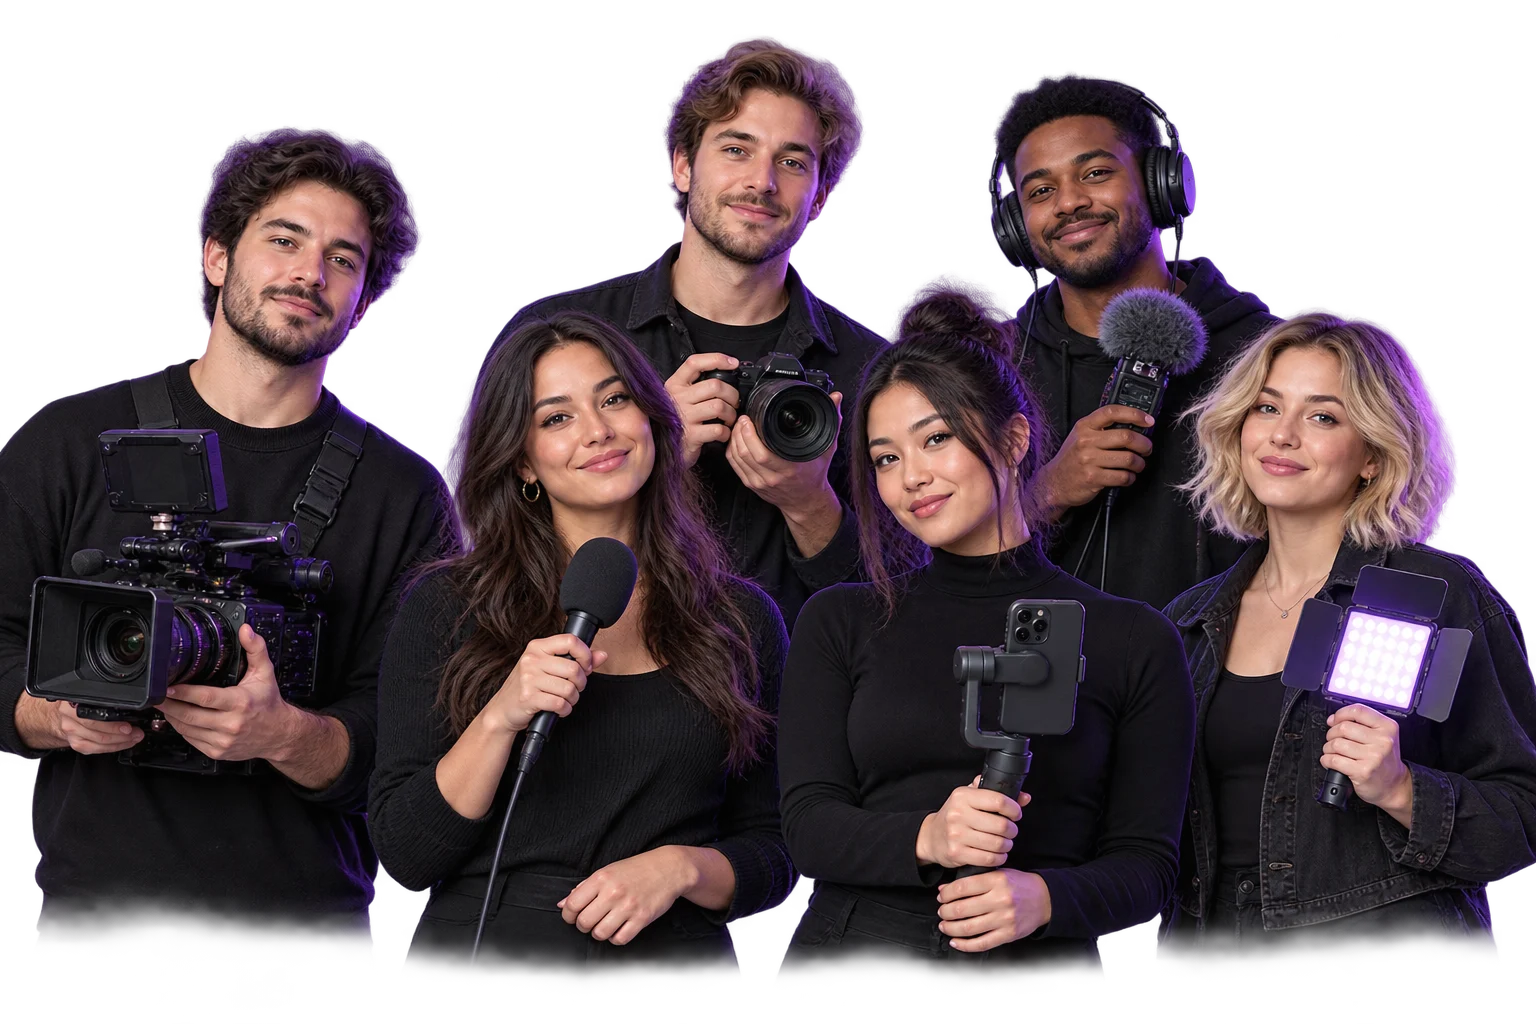
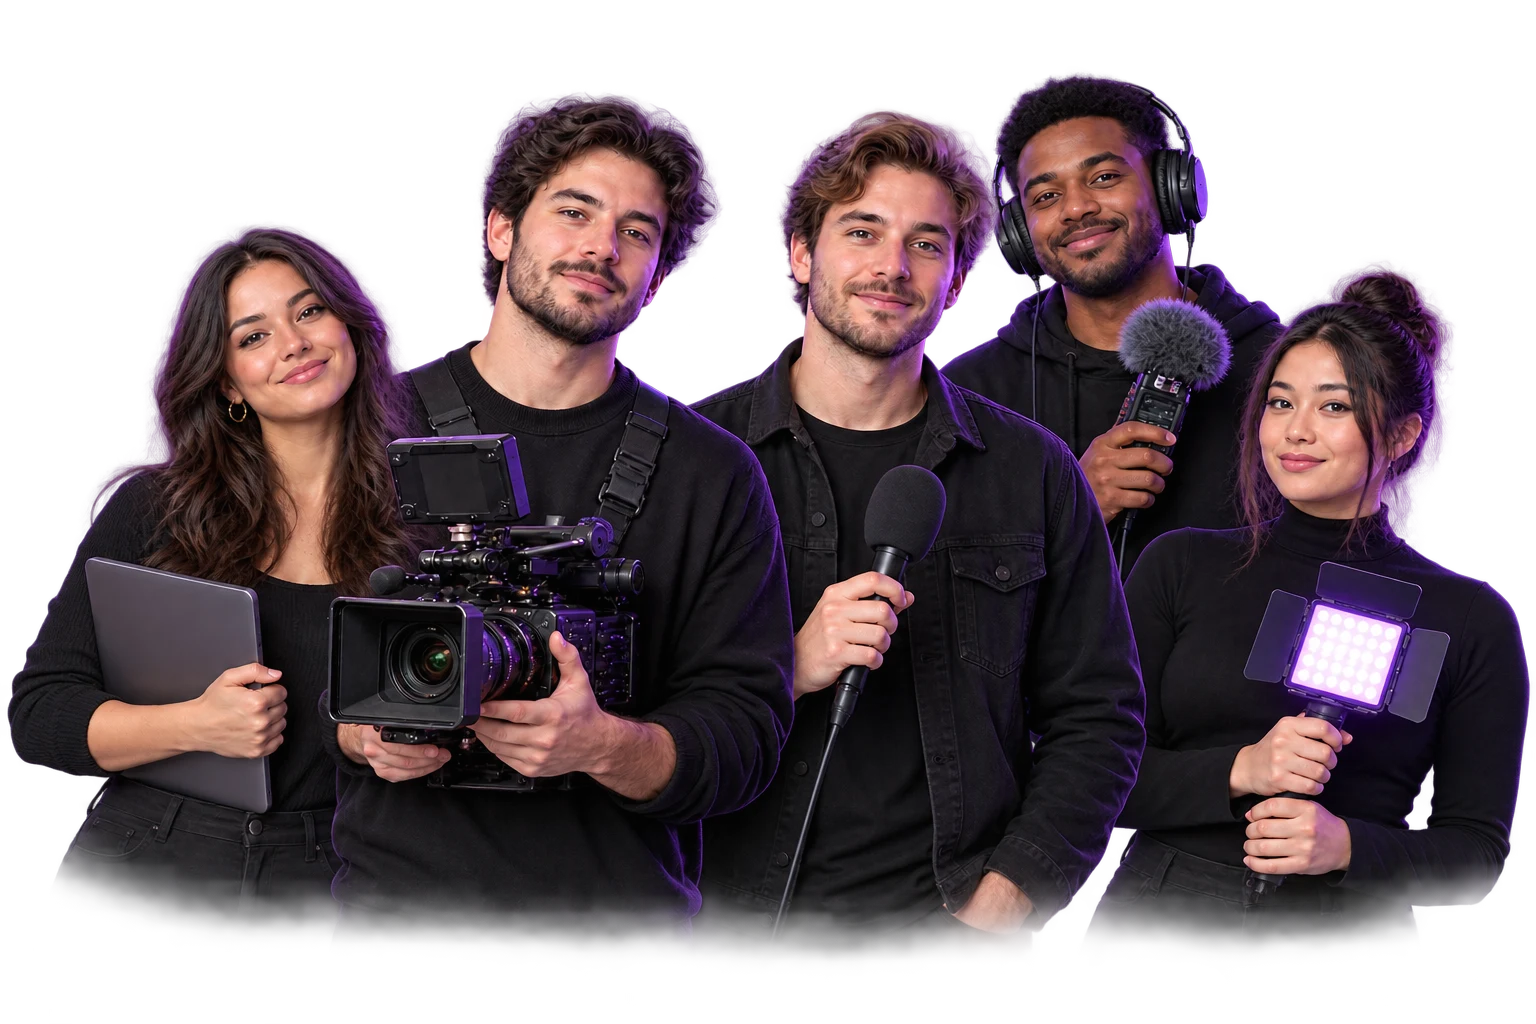
new team mockup

diff --git a/smm/index.html b/smm/index.html
@@ -157,7 +157,7 @@
       <figure class="hero-visual">
         <div class="orbit orbit-one" aria-hidden="true"></div><div class="orbit orbit-two" aria-hidden="true"></div><div class="visual-grid" aria-hidden="true"></div>
         <!-- AI-generated mockup; replace with the real team portrait when available. -->
-        <div class="team-image"><img src="./assets/images/team-mockup-1536.webp" srcset="./assets/images/team-mockup-768.webp 768w, ./assets/images/team-mockup-1536.webp 1536w" sizes="(max-width: 600px) calc(100vw - 40px), (max-width: 668px) calc(100vw - 48px), (max-width: 800px) 620px, (max-width: 1100px) calc(56vw - 40px), (max-width: 1312px) calc(57vw - 64px), 684px" alt="Komandas vizualizācija: trīs vīrieši un trīs sievietes ar kamerām, mikrofoniem un filmēšanas aprīkojumu." width="1536" height="1024" class="team-cutout" fetchpriority="high" decoding="async"></div>
+        <div class="team-image"><img src="./assets/images/team-mockup-1536.webp" srcset="./assets/images/team-mockup-768.webp 768w, ./assets/images/team-mockup-1536.webp 1536w" sizes="(max-width: 600px) calc(100vw - 40px), (max-width: 668px) calc(100vw - 48px), (max-width: 800px) 620px, (max-width: 1100px) calc(56vw - 40px), (max-width: 1312px) calc(57vw - 64px), 684px" alt="Komandas vizualizācija: trīs vīrieši un divas sievietes; centrā vīrieši ar kameru un mikrofonu, apkārt kolēģi ar planšeti, skaņas ierakstītāju un LED gaismu." width="1536" height="1024" class="team-cutout" fetchpriority="high" decoding="async"></div>
         <span class="visual-coordinate" aria-hidden="true">Mūsu Komanda</span>
         <span class="focus-mark focus-one" aria-hidden="true"></span><span class="focus-mark focus-two" aria-hidden="true"></span>
       </figure>

diff --git a/smm/assets/images/team-mockup-prompt.md b/smm/assets/images/team-mockup-prompt.md
@@ -1,12 +1,12 @@
-# Team header mockup
+# Team header mockup
 
-Generated with the built-in imagegen tool. Output: `team-mockup.png` (1536 × 1024, RGBA). The image contains fictional people for layout preview. The page adds a CSS transparency mask at waist level.
+Regenerated with the built-in imagegen tool using the previous hero as a reference. Output: `team-mockup.png` (1536 × 1024, RGBA). The image contains five fictional adults: three men and two women. Two men are centered, holding a camera and a microphone; the surrounding teammates hold a tablet, audio recorder, and LED light. The page adds a CSS transparency mask at waist level. Responsive WebP versions preserve alpha transparency at 768 × 512 and 1536 × 1024.
 
 ## Prompt
 
-Use case: photorealistic-natural
-Asset type: transparent PNG team cutout for a black and violet social media marketing agency website hero.
-Primary request: Exactly six fictional adult creative agency teammates, three men and three women, posing together with content production equipment. Photorealistic editorial group portrait, friendly confident natural expressions, contemporary casual black/charcoal clothing, varied hairstyles and appearances. One man holds a compact cinema camera rig, one woman holds a handheld interview microphone, another man holds a mirrorless camera, another woman holds a small phone gimbal, the remaining man wears audio headphones and holds a compact recorder, the remaining woman holds a small LED video light. Equipment and hands should look realistic and not obscure faces.
-Composition/framing: landscape 3:2 image, compact cohesive group in two subtly staggered rows, all six distinct faces fully visible, people fill frame horizontally with small transparent margins around outer silhouettes, framed from heads to just below the waist. No legs needed. Natural height variation, no excessive empty space above heads. The lower waist portion softly feathers to full transparency at the bottom, while heads, hair, shoulders and gear have clean detailed cutout edges.
-Lighting/mood: flattering neutral studio key light, subtle violet rim lighting to fit a dark website with #aa83ff accents, believable skin textures, polished but approachable.
-Scene/backdrop: genuinely transparent background with alpha channel, only the six people and the equipment they hold. Transparent gaps between people. No studio, no room, no floor, no background color, no shadow panel, no checkerboard drawn into the image. Preserve actual alpha transparency. No text, no logos, no watermark. No additional people.
+Use case: precise-object-edit
+Asset type: transparent team cutout for the existing black and violet social media agency website hero.
+Input image: the existing six-person hero is the edit target and visual reference. Preserve its photorealistic editorial style, black/charcoal casual clothing, natural friendly confident expressions, neutral studio key light and subtle violet rim light, realistic skin and professional production accessories. Recreate the composition with EXACTLY FIVE fictional adult teammates: THREE MEN and TWO WOMEN.
+Composition: TWO MEN clearly side-by-side IN THE CENTER and slightly forward as the main subjects. The central man on the left holds a realistic compact cinema camera rig in both hands at chest/waist level. The central man on the right holds a handheld interview microphone at chest level. Neither object hides a face. Around and slightly behind these two central men, arrange exactly ONE additional man and TWO women: the additional man wears audio monitoring headphones and holds a small field recorder; one woman holds a compact laptop/tablet for editing or production notes; the other woman holds a small professional LED video light. Compact cohesive group, all five distinct faces clearly visible, natural height variation, heads to just below waist, small margins around outer silhouettes, no cropped heads or gear. Keep the overall landscape 3:2 composition, ideally 1536 by 1024, suitable for the same hero image slot.
+Scene/backdrop: genuinely TRANSPARENT alpha background, ONLY the five people and their held equipment. Remove any background glow or studio backdrop from the reference: violet is rim light ON the subjects only. Transparent gaps around and between silhouettes. No opaque black rectangle, no painted checkerboard, no room or floor. Softly feather the bottom of the torsos into transparency around waist level to blend into the existing black page; keep hair, heads, shoulders and equipment edges clean.
+Constraints: exactly 3 adult men and 2 adult women, no extra people. Two central men must hold respectively camera and microphone. Realistic hands and equipment, no text, no logos, no watermark. Match the reference's image style and dark/violet clothing treatment.

diff --git a/smm/CONTENT.md b/smm/CONTENT.md
@@ -4,7 +4,7 @@ Route: `/smm/`. Static HTML/CSS with a small menu script. Latvian copy, black ba
 
 ## Images needed
 
-- **Team cutout:** `assets/images/team-mockup.png` is the original AI-generated, transparent 1536 × 1024 PNG showing three fictional men and three fictional women with content production equipment. Its alt text identifies it as a visualization. The page serves transparent `team-mockup-768.webp` (108,966 bytes) and `team-mockup-1536.webp` (338,582 bytes) using responsive `srcset` and `sizes`, saving 87–96% compared with the original 2,533,132-byte PNG. CSS fades the waist into the page background. Replace these with an approved real team cutout when available; retain `.team-cutout`, descriptive alt text, and correct intrinsic dimensions. Light, rings, and viewfinder marks remain separate from the photo. Generation details are in `assets/images/team-mockup-prompt.md`.
+- **Team cutout:** `assets/images/team-mockup.png` is an AI-generated, transparent 1536 × 1024 PNG showing three fictional men and two fictional women. The two central men hold a camera and microphone; the surrounding teammates carry a tablet, audio recorder, and LED light. Its alt text identifies it as a visualization. The page serves transparent `team-mockup-768.webp` (97,344 bytes) and `team-mockup-1536.webp` (309,770 bytes) using responsive `srcset` and `sizes`. CSS fades the waist into the page background. Replace these with an approved real team cutout when available; retain `.team-cutout`, descriptive alt text, and correct intrinsic dimensions. Light, rings, and viewfinder marks remain separate from the photo. Generation details are in `assets/images/team-mockup-prompt.md`.
 - **Company logos:** the user-requested collaborations are Dvoretsky Distillery, Temu, BAVA autoskola, Ekocope.lv, Morex, Čiekurkalna lofti, LVBET, and Vapify, in that order. Transparent PNG/SVG logos are hosted locally in `assets/clients/`; source links and asset notes are recorded in `assets/clients/SOURCES.md`. Add or remove `.partner-logo` list items in the original `.logo-group` only. The script creates the inaccessible duplicates needed for a seamless loop automatically.
 - **Studio gallery:** five fictional, photorealistic scenes generated with built-in imagegen: cameras/lights/microphones on a table, podcast room, green-screen studio, streaming workstation, and outdoor filming. Images are stored in `assets/studio/` as responsive 640 × 480 and 1280 × 960 WebP files, with lazy loading and descriptive Latvian alt text identifying them as visualizations. Full prompts and output names are in `assets/studio/PROMPTS.md`. These are mockups, not photographs of actual premises or equipment. Replace both image sizes with real photos when available; update the alt text and intrinsic dimensions accordingly. Keep each `.studio-card` figure, caption, and `data-title`. Add or remove whole figures—the controls/count update automatically. The central card is prominent, and neighboring cards sit lower, tilted behind it.
 
